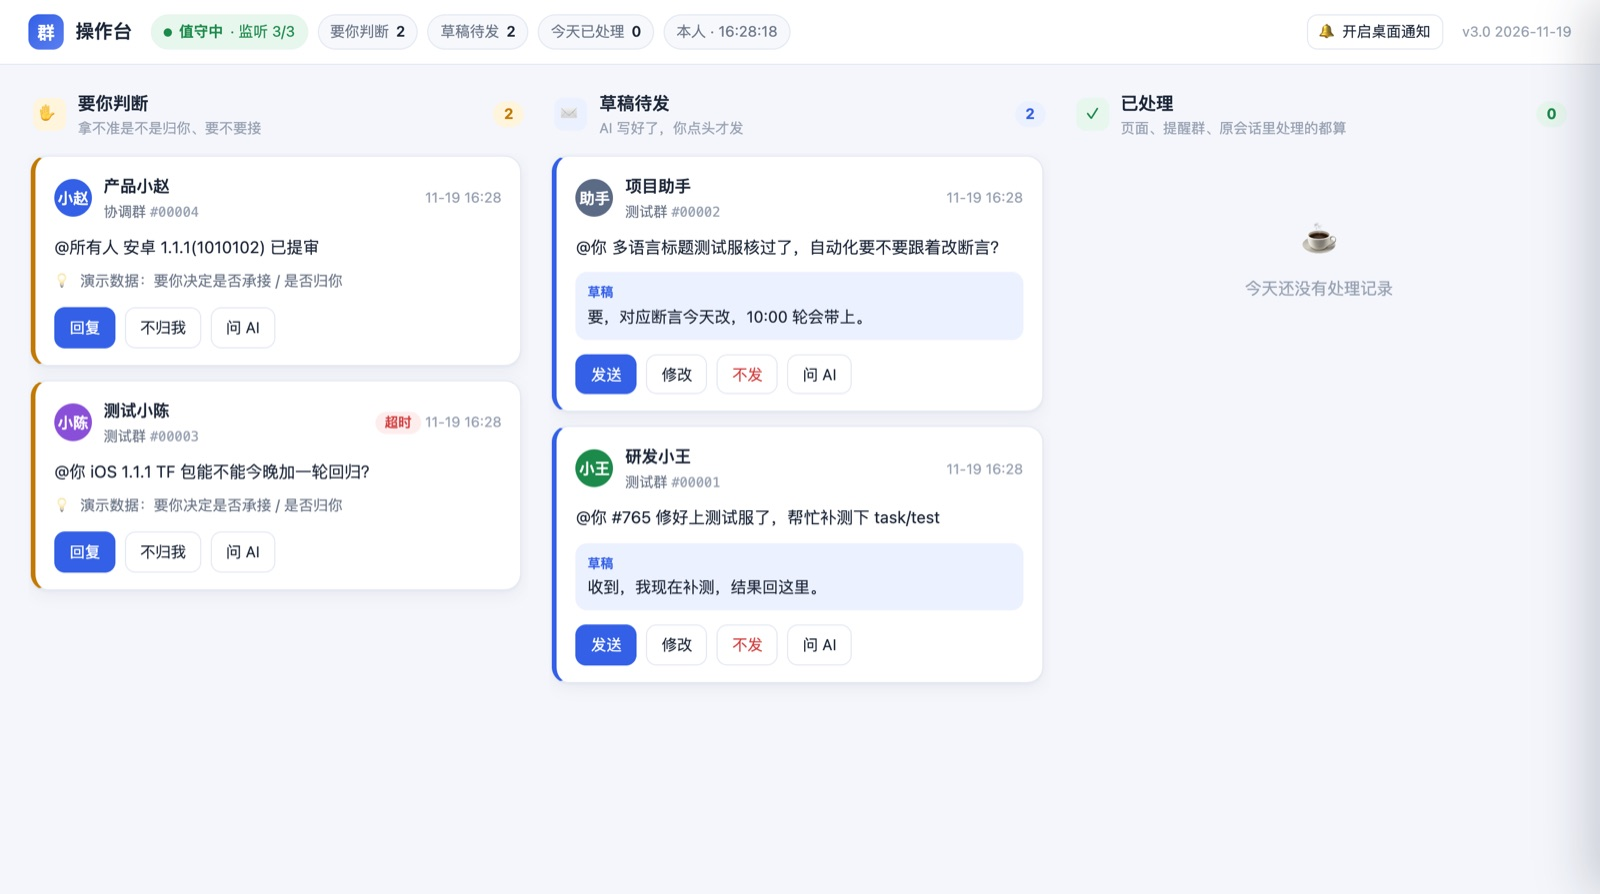
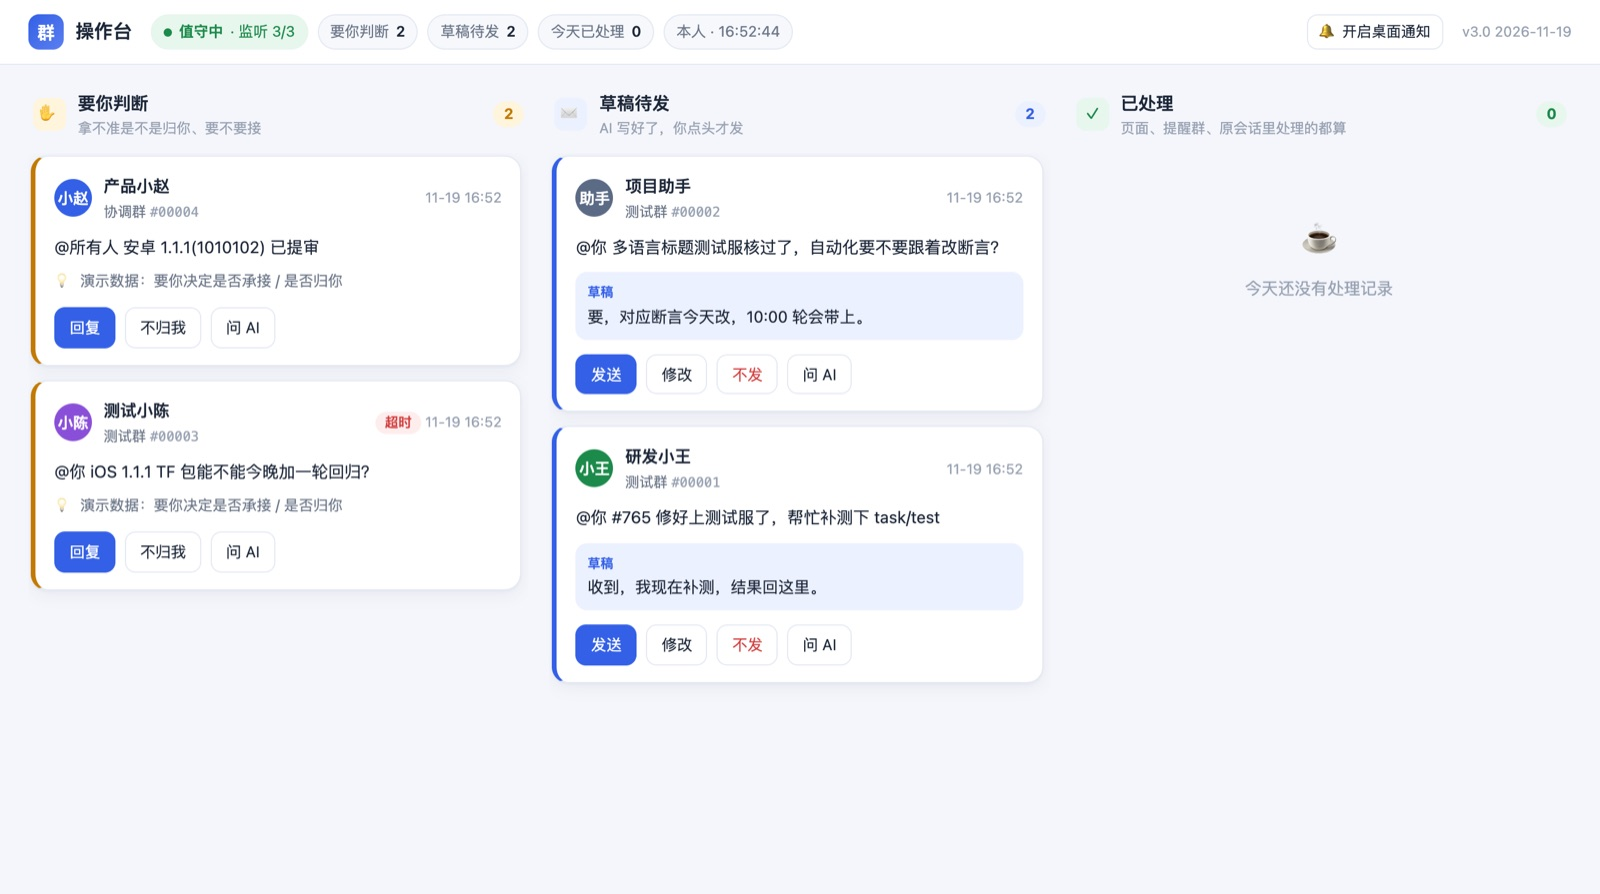
3.0 补充：绑定已有提醒群和机器人、内网其他电脑看操作台、并行时不重复提醒、已处理显示最近 20 条；指南快速上手改成分条重点，截图和缓存修正

Changed region(s): [[0.9688, 0.0302, 1.0, 0.9664], [0.4688, 0.0302, 0.5, 0.0604]]

diff --git a/site/template.html b/site/template.html
@@ -83,19 +83,26 @@
   <div class="guide-layout">
     <div>
       <div class="step-card" id="s1"><div class="step-heading"><span class="no">01</span><h3>下载部署文档</h3></div>
-        <p>一份 Markdown 文件，里面有给 AI 助手的完整指令、代码和工作手册，不用另外下载程序。</p>
+        <ul class="pts"><li>就是<b>一份 Markdown 文件</b>：给 AI 助手的完整指令、代码和工作手册都在里面</li><li><mark>不用另外下载程序</mark></li></ul>
         <div class="hero-actions" style="margin-top:14px"><a class="button primary" href="files/doc0.md" download="{{DOC0}}">下载部署文档</a><button class="button ghost" data-copy-doc>复制部署文档</button><a class="button ghost" href="view.html?f=doc0.md&n={{DOC0}}">在线看全文</a></div>
-        <p style="font-size:13px">不想下载文件？点「复制部署文档」，直接粘贴给你的 AI 助手也行；要看原文点 <a href="view.html?f=doc0.md&n={{DOC0}}&raw=1">以 Markdown 格式查看</a>。</p></div>
+        <ul class="pts sub"><li>不想下载文件：点「<b>复制部署文档</b>」，直接粘贴给你的 AI 助手</li><li>想看原文：<a href="view.html?f=doc0.md&n={{DOC0}}&raw=1">以 Markdown 格式查看</a></li></ul></div>
       <div class="step-card" id="s2"><div class="step-heading"><span class="no">02</span><h3>拖进你的 AI 助手，发「部署」</h3></div>
-        <p>AI 助手按文档从第 0 步开始：查环境 → 给你看风险 → 认出你是谁 → 一步一步问你选项（回数字就行）。</p>
+        <ul class="pts flow"><li>查环境</li><li>给你看风险</li><li>认出你是谁</li><li>一步步问你选项（<mark>回数字就行</mark>）</li></ul>
         <div class="cmd"><code>部署</code><button class="copy-button" data-copy="部署">复制</button></div></div>
       <div class="step-card" id="s3"><div class="step-heading"><span class="no">03</span><h3>确认角色、职责范围和回复规则</h3></div>
-        <p>有协作库就按协作库认出你的角色和职责；没有就从<b>角色职责库</b>选（产品、Android、iOS、H5、网页版、服务端、剧中台、推荐、测试、运营、后台 UI、项目负责人，可多选）。每个角色的职责会念给你，你修改、补充，最后二次确认才生效。</p>
-        <div class="callout">助手不会在群里自动回复任何消息：所有回复都由你确认后才发，超过 2 小时没处理会再提醒你。</div></div>
-      <div class="step-card" id="s4"><div class="step-heading"><span class="no">04</span><h3>提醒群自动建好，你只加一个机器人</h3></div>
-        <p>AI 助手运行 <code>setup-notify</code>，用钉钉 CLI 自动建好只有你自己的提醒群，并在群里发一条加机器人的步骤。钉钉不允许程序代建机器人，这一步要你点一下（约 1 分钟）：群设置 → 机器人 → 自定义 → 勾「加签」。把 Webhook 地址和 SEC 密钥直接发在群里，助手自动写进配置、发一条自检，不用改任何文件。</p></div>
+        <ul class="pts"><li><b>有协作库</b>：按协作库认出你的角色和职责</li>
+        <li><b>没有协作库</b>：从<span class="key">角色职责库</span>选，可多选——产品、Android、iOS、H5、网页版、服务端、剧中台、推荐、测试、运营、后台 UI、项目负责人</li>
+        <li>每个角色的职责会念给你，你可以改、可以补，<mark>二次确认后才生效</mark></li></ul>
+        <div class="callout">助手<b>不会在群里自动回复任何消息</b>：所有回复都由你确认后才发；超过 <b>2 小时</b>没处理会再提醒你。</div></div>
+      <div class="step-card" id="s4"><div class="step-heading"><span class="no">04</span><h3>提醒群：有就直接用，没有自动建</h3></div>
+        <ul class="pts"><li><span class="tag-ok">已经有</span>提醒群和机器人：把群名、Webhook 地址、SEC 密钥告诉 AI 助手，<mark>直接绑定，不新建</mark></li>
+        <li><span class="tag-new">还没有</span>AI 助手运行 <code>setup-notify</code>，用钉钉 CLI <b>自动建好</b>只有你自己的提醒群</li>
+        <li>机器人要<b>你点一下</b>（钉钉不允许程序代建，约 1 分钟）：<span class="key">群设置 → 机器人 → 自定义 → 勾「加签」</span></li>
+        <li>把 Webhook 地址和 SEC 密钥<b>直接发在群里</b>，助手自动写进配置、发一条自检，<mark>不用改任何文件</mark></li></ul></div>
       <div class="step-card" id="s5"><div class="step-heading"><span class="no">05</span><h3>自检，看到版本号就好了</h3></div>
-        <p>最后 AI 助手会跑一次自检，并下载内置表情包索引，再按你的系统设好每天 09:00 和登录时自动启动（Windows 计划任务 / macOS LaunchAgent / Linux systemd）。提醒群收到一条「助手自检」就说明机器人通了。</p>
+        <ul class="pts"><li>AI 助手跑一次自检，并下载内置表情包索引</li>
+        <li>设好<b>每天 09:00 和登录时自动启动</b>（Windows 计划任务 / macOS LaunchAgent / Linux systemd）</li>
+        <li>提醒群收到「<b>助手自检</b>」= 机器人通了；再收到「<b>打开操作台</b>」链接 = <mark>全部装好</mark></li></ul>
         <div class="cmd"><code data-win="python C:\qa-agent\agent.py check" data-unix="python3 ~/qa-agent/agent.py check">python C:\qa-agent\agent.py check</code><button class="copy-button" data-copy="python C:\qa-agent\agent.py check">复制</button></div></div>
     </div>
     <aside class="progress-card" aria-label="上手进度"><h3>上手进度 <span id="pc">0 / 5</span></h3><div class="bar"><i id="pb"></i></div>

diff --git a/site/guide.css b/site/guide.css
@@ -83,3 +83,10 @@ section.block{padding:56px 0;border-top:1px solid var(--border)}
 .feature-grid{display:grid;grid-template-columns:repeat(3,minmax(0,1fr));gap:14px;margin:8px 0}.feature{background:var(--surface);border:1px solid var(--border);border-radius:14px;padding:16px 18px}
 .feature h3{margin:0 0 6px;font-size:16px}.feature p{margin:0;color:var(--muted);font-size:14.5px;line-height:1.7}
 @media (max-width:900px){.feature-grid{grid-template-columns:1fr}}
+.pts{margin:10px 0 0;padding-left:0;list-style:none}.pts li{position:relative;padding:3px 0 3px 18px;line-height:1.75;color:var(--text)}
+.pts li::before{content:"";position:absolute;left:4px;top:.85em;width:6px;height:6px;border-radius:50%;background:var(--blue)}
+.pts.sub li{font-size:13.5px;color:var(--muted)}.pts.sub li::before{background:var(--border)}
+.pts.flow{display:flex;flex-wrap:wrap;gap:6px 0}.pts.flow li{padding:3px 22px 3px 0}.pts.flow li::before{display:none}.pts.flow li:not(:last-child)::after{content:"→";position:absolute;right:6px;color:var(--muted)}
+mark{background:var(--blue-soft);color:var(--blue);font-weight:600;padding:1px 6px;border-radius:5px}
+.key{color:var(--blue);font-weight:600}.tag-ok,.tag-new{display:inline-block;font-size:12px;font-weight:600;border-radius:99px;padding:0 8px;margin-right:6px}
+.tag-ok{background:#e6f6ec;color:#17803d}.tag-new{background:var(--blue-soft);color:var(--blue)}

diff --git a/agent.py b/agent.py
@@ -434,6 +434,8 @@ def minutes_left():
 def notify(title, text):
     """提醒本人：只走本人专属群的机器人（有推送、有历史）。机器人没配或发送失败时记进 待处理.md 和日志，第二天的汇报里会写出来。"""
     ok = False
+    if CFG.get("quiet_new_items") and title[:1] in ("🔔", "❓", "📝"):
+        log("新事项只进操作台，不发提醒群", title); return True          # 和别的值守并行时避免提醒群重复（11-19）
     if CFG.get("webhook") and CFG.get("secret"):
         ts = str(int(time.time() * 1000)); sec = CFG["secret"]
         sign = base64.b64encode(hmac.new(sec.encode(), f"{ts}\n{sec}".encode(), hashlib.sha256).digest()).decode()
@@ -455,10 +457,30 @@ def notify(title, text):
     return ok
 
 
-def setup_notify(wait_minutes=15):
+def _resolve_group(q):
+    """群名或 openConversationId → openConversationId（群名要唯一命中）。"""
+    if q.startswith("cid"):
+        return q
+    r = run([DWS, "chat", "+chat-search", "--query", q, "--format", "json"], timeout=60)
+    ids = list(dict.fromkeys(re.findall(r'"openConversationId"\s*:\s*"([^"]+)"', r.stdout or "")))
+    return ids[0] if len(ids) == 1 else None
+
+
+def setup_notify(wait_minutes=15, group="", webhook="", secret=""):
     """v3.0：提醒群自动建好（dws 建群，只有本人），再引导本人在群里加自定义机器人。
     钉钉开放接口不支持创建自定义机器人、也拿不到它的地址和密钥，这一步只能本人在群设置里点（约 1 分钟）；
     本人把地址和加签密钥直接发在这个群里，助手读到后自己写进配置、发一条自检，不用手改任何文件。"""
+    # 已有提醒群 / 机器人的直接绑定，不强制新建（11-19 梦无矶）：--group 群名或 cid；--webhook 地址 --secret SEC 密钥
+    if group:
+        cid = _resolve_group(group)
+        if not cid:
+            print(f"没找到唯一的群「{group}」，换个更完整的群名，或直接给 openConversationId"); return False
+        save_cfg("notify_group", cid); print("已绑定提醒群", group)
+    if webhook and secret:
+        save_cfg("webhook", webhook); save_cfg("secret", secret)
+    if CFG.get("notify_group") and CFG.get("webhook") and CFG.get("secret"):
+        ok = notify("🧪 助手自检", "已绑定你现有的提醒群和机器人：以后草稿、提醒、日报都从这里发。")
+        print("已用现有的群和机器人，自检", "成功" if ok else "失败（核对地址、密钥是否对应这个群的机器人）"); return ok
     cid = CFG.get("notify_group")
     if not cid:
         name = f"群消息助手·{CFG.get('my_name') or '提醒'}"
@@ -527,7 +549,10 @@ def open_close(no, why):
 def close_by_conversation(cid):
     """本人在这个会话里亲自回复了 → 这个会话里交给本人的事都算处理了。"""
     for no, x in list(_open_load().items()):
-        if x.get("cid") == cid and x.get("kind") == "escalate":
+        if x.get("cid") == cid:                                           # 本人（或代本人值守的程序）已在原会话回复：草稿也作废
+            f, _ = draft_by_no(no)
+            if f:
+                os.remove(f)
             open_close(no, "你已在该会话回复")
 
 
@@ -1358,7 +1383,8 @@ def main():
             raise SystemExit("用法：python agent.py watch [--once]")
         return watch(once="--once" in sys.argv[2:], auto="--auto" in sys.argv[2:])
     if len(sys.argv) >= 2 and sys.argv[1] == "setup-notify":
-        setup_notify(); return
+        opt = dict(zip(sys.argv[2::2], sys.argv[3::2]))                   # --group 群名/cid  --webhook 地址  --secret SEC…
+        setup_notify(group=opt.get("--group", ""), webhook=opt.get("--webhook", ""), secret=opt.get("--secret", "")); return
     if len(sys.argv) >= 2 and sys.argv[1] == "clear":
         n, k = clear_all(); print(f"已清空：{n} 件没处理完的事、{k} 份草稿，都没有发出"); return
     if len(sys.argv) >= 2 and sys.argv[1] == "audit":
@@ -1394,7 +1420,7 @@ def main():
     try:                                                                   # v3.0 本机操作台：页面上直接处理，和提醒群指令同步
         import console
         if console.start(globals()):
-            notify("🖥 打开操作台", f"[点这里打开操作台]({console.url()})\n只能在本机打开；有新的要处理会弹桌面通知，处理后提醒群和页面同步。")
+            notify("🖥 打开操作台", f"[点这里打开操作台]({console.url()})\n" + ("内网其他电脑也能打开（链接带密钥，别外传）" if console.lan() else "只能在本机打开；有新的要处理会弹桌面通知") + "，处理后提醒群和页面同步。")
     except Exception as ex:
         log("操作台没开起来", repr(ex)[:200])
     threading.Thread(target=morning_report, daemon=True).start()

diff --git a/console.py b/console.py
@@ -16,7 +16,7 @@ from http.server import BaseHTTPRequestHandler, ThreadingHTTPServer
 
 A = {}                     # agent.py 的全局变量（start 时传进来）
 TOKEN = ""
-CLOSED_N = 200             # 「已处理」列保留最近多少条
+CLOSED_N = 20              # 「已处理」列只显示最近 20 条（11-19 梦无矶：3 天内为主，但始终保证 20 条）
 POP = {"t": 0}             # 上次把操作台弹到前面的时间
 
 
@@ -245,8 +245,22 @@ class H(BaseHTTPRequestHandler):
         self._send(200, json.dumps({"msg": "已处理" if msg == "ok" else msg}, ensure_ascii=False))
 
 
+def _lan_ip():
+    import socket
+    try:
+        x = socket.socket(socket.AF_INET, socket.SOCK_DGRAM); x.connect(("223.5.5.5", 80)); ip = x.getsockname()[0]; x.close(); return ip
+    except OSError:
+        return "127.0.0.1"
+
+
+def lan():
+    """console_host 设成 0.0.0.0（或本机内网 IP）= 允许内网其他电脑打开（比如助手装在 Mac、人在 Windows 上看）。"""
+    return (A["CFG"].get("console_host") or "127.0.0.1") not in ("127.0.0.1", "localhost")
+
+
 def url():
-    return f"http://127.0.0.1:{int(A['CFG'].get('console_port') or 8765)}/?k={TOKEN}"
+    host = A["CFG"].get("console_url_host") or (_lan_ip() if lan() else "127.0.0.1")
+    return f"http://{host}:{int(A['CFG'].get('console_port') or 8765)}/?k={TOKEN}"
 
 
 def start(ns):
@@ -312,8 +326,8 @@ main{flex:1;min-height:0;display:grid;grid-template-columns:repeat(3,minmax(0,1f
 .btns{display:flex;gap:8px;flex-wrap:wrap;margin-top:12px}
 .empty{color:var(--faint);text-align:center;padding:48px 10px}.empty .big{font-size:30px;display:block;margin-bottom:6px}
 .mask{position:fixed;inset:0;background:rgba(10,18,35,.25);opacity:0;pointer-events:none;transition:.2s;z-index:9}.mask.on{opacity:1;pointer-events:auto}
-aside{position:fixed;top:0;right:0;height:100%;width:min(560px,100%);background:var(--surface);box-shadow:-12px 0 40px rgba(10,20,45,.18);transform:translateX(100%);transition:transform .22s ease;display:flex;flex-direction:column;z-index:10}
-aside.on{transform:none}.ph{padding:16px 20px;border-bottom:1px solid var(--border);display:flex;align-items:center;gap:12px}.ph .t{font-weight:700}.ph .s{color:var(--muted);font-size:12.5px}
+aside{position:fixed;top:0;right:0;height:100%;width:min(560px,100%);background:var(--surface);box-shadow:none;transform:translateX(100%);transition:transform .22s ease;display:flex;flex-direction:column;z-index:10}
+aside.on{transform:none;box-shadow:-12px 0 40px rgba(10,20,45,.18)}.ph{padding:16px 20px;border-bottom:1px solid var(--border);display:flex;align-items:center;gap:12px}.ph .t{font-weight:700}.ph .s{color:var(--muted);font-size:12.5px}
 .pb{flex:1;overflow:auto;padding:16px 20px;background:var(--soft)}.pf{border-top:1px solid var(--border);padding:14px 20px;background:var(--surface)}
 .bub{display:flex;gap:10px;margin-bottom:14px}.bub .av{width:28px;height:28px;font-size:12px}.bub .b{background:var(--surface);border:1px solid var(--border);border-radius:4px 12px 12px 12px;padding:8px 12px;max-width:100%}
 .bub .w{font-size:12px;color:var(--muted);margin-bottom:2px}.bub .w span{color:var(--faint);margin-left:6px}.bub .tx{white-space:pre-wrap;word-break:break-word}

diff --git a/site/build_site.py b/site/build_site.py
@@ -36,10 +36,15 @@ page = open(os.path.join(HERE, "template.html"), encoding="utf-8").read()
 for k, v in {"{{VER}}": html.escape(ver), "{{VER_SHORT}}": html.escape(ver.split()[0]), "{{DOC0}}": html.escape(DOCS[0][0]),
              "{{CHANGELOG}}": cl, "{{DOWNLOADS}}": "".join(cards)}.items():
     page = page.replace(k, v)
+import hashlib   # 静态文件按内容取短哈希当 ?v=，内容一变浏览器就重新取（11-19：版本号不变时用户看到的是旧缓存）
+def _h(name):
+    return hashlib.md5(open(os.path.join(OUT, "assets", name), "rb").read()).hexdigest()[:8]
+for _n in ("guide.css", "console.jpg", "console-panel.jpg"):
+    page = re.sub(r"assets/" + re.escape(_n) + r"\?v=[^\"']*", f"assets/{_n}?v={_h(_n)}", page)
 open(os.path.join(OUT, "index.html"), "w", encoding="utf-8").write(page)
 open(os.path.join(OUT, "view.html"), "w", encoding="utf-8").write(f"""<!doctype html><html lang="zh"><head><meta charset="utf-8"><meta name="viewport" content="width=device-width,initial-scale=1">
 <title>群消息助手 · 文档</title><script>try{{var t=localStorage.getItem('qa-theme');if(t&&t!=='auto')document.documentElement.dataset.theme=t}}catch(e){{}}</script>
-<link rel="stylesheet" href="assets/guide.css?v={html.escape(ver.split()[0])}"><style>#c{{background:var(--surface);border:1px solid var(--border);border-radius:14px;padding:28px 32px;margin-top:20px;overflow-x:auto}}#c pre{{background:var(--surface-soft);padding:14px;border-radius:8px;overflow-x:auto;font-size:13px}}#c table{{border-collapse:collapse;display:block;overflow-x:auto}}#c td,#c th{{border:1px solid var(--border);padding:6px 10px}}#c h1,#c h2,#c h3{{margin:1.2em 0 .5em}}#c p{{margin:.6em 0}}</style>
+<link rel="stylesheet" href="assets/guide.css?v={_h('guide.css')}"><style>#c{{background:var(--surface);border:1px solid var(--border);border-radius:14px;padding:28px 32px;margin-top:20px;overflow-x:auto}}#c pre{{background:var(--surface-soft);padding:14px;border-radius:8px;overflow-x:auto;font-size:13px}}#c table{{border-collapse:collapse;display:block;overflow-x:auto}}#c td,#c th{{border:1px solid var(--border);padding:6px 10px}}#c h1,#c h2,#c h3{{margin:1.2em 0 .5em}}#c p{{margin:.6em 0}}</style>
 <script src="assets/marked.min.js"></script></head><body>
 <header class="site-header"><div class="header-inner"><a class="brand" href="./"><span class="logo">群</span>群消息助手</a><nav class="header-nav"><a href="./">← 返回指南</a></nav><span id="mdtools" style="display:none;gap:10px;align-items:center;font-size:13.5px"><button class="link-button" id="cp">⧉ 复制页面</button><a id="raw"></a></span><a class="button ghost" id="dl" download>下载原文件</a></div></header>
 <div class="toast" id="toast">已复制</div>

diff --git a/tests/test_console.py b/tests/test_console.py
@@ -118,3 +118,21 @@ def test_status_not_spammed_to_notify_group_but_problems_are(make_agent):
     assert not notes                                                          # v3.0：例行状态不发提醒群
     a.status_event("监听异常", "测试群 断开", announce=True)
     assert notes and "监听异常" in notes[-1][0]
+
+
+def test_setup_notify_binds_existing_group_and_robot_without_creating(make_agent):
+    a, notes, calls = make_agent({"notify_group": ""})
+    a.CFG["notify_group"] = ""
+    a.run = lambda args, **k: calls.append(args) or R(0, '{"items": [{"openConversationId": "cidOLD"}]}')
+    hook = "https://oapi.dingtalk.com/robot/send?access_token=" + "c3" * 32
+    assert a.setup_notify(group="我的提醒群", webhook=hook, secret="SEC" + "d4" * 32)
+    assert a.CFG["notify_group"] == "cidOLD" and a.CFG["webhook"] == hook
+    assert not any("+chat-create" in c for c in calls)                       # 没建新群
+    assert notes and "自检" in notes[-1][0]
+
+
+def test_console_lan_mode_link_uses_lan_address(make_agent):
+    a, console, *_ = _boot(make_agent)
+    assert console.url().startswith("http://127.0.0.1:")
+    a.CFG["console_host"] = "0.0.0.0"; a.CFG["console_url_host"] = "192.168.9.9"
+    assert console.lan() and console.url().startswith("http://192.168.9.9:")

diff --git a/CHANGELOG.md b/CHANGELOG.md
@@ -8,6 +8,9 @@
 - **三处同步**：页面按钮转成和提醒群一模一样的指令执行；在提醒群、页面、原会话任一处处理，另外两处自动同步（页面 3 秒内更新、桌面通知自动关掉、提醒群收到「已处理」）。
 - **有新的要处理才弹**：自动用浏览器把操作台弹到最前面并定位到那件事（60 秒内最多一次，提醒群「弹出 关 / 开」切换），同时弹桌面通知、标签页显示件数；没有新事件什么都不弹，页面不整页刷新。同时只留一个操作台标签页。
 - **问待办给链接**：提醒群问「有什么待办」「还有什么没处理的」，回复末尾附「打开操作台」链接。
+- **和别的值守并行**：`quiet_new_items: true` 时新事项只进操作台、不发提醒群，避免和其他值守程序重复提醒；本人（或代本人值守的程序）在原会话回复后，这件事连同草稿自动移到「已处理」。「已处理」列只显示最近 20 条。
+- **在别的电脑上看操作台**：`console_host: "0.0.0.0"` 后，「打开操作台」链接自动换成本机内网地址，同一内网的电脑带密钥就能打开（助手在 Mac、人在 Windows 也行）。
+- **已有的提醒群 / 机器人直接绑定**：`setup-notify --group 群名 --webhook 地址 --secret SEC…`，不强制新建；没有才自动建。
 - **提醒群自动建**：`agent.py setup-notify` 用钉钉 CLI 建好只有本人的提醒群；自定义机器人钉钉不允许程序代建，本人点一下后把地址和密钥发进群里，助手自动写进配置并自检，不用手改文件。
 - **值守状态进操作台**：顶栏绿点（值守中 / 部分监听断开 / 没在监听 / 值守时间外）。提醒群默认不再发「收到消息 / 开始处理 / 心跳」，出问题（监听断开、发送失败、处理失败）照发；2.10 的汇报窗口默认关闭（`report_window: true` 可打开）。
 - **测试**：新增操作台密钥校验、三列不重复、页面发送与提醒群同步、待办链接、弹出与开关、自动建群 8 项；macOS、Linux 实测通过，Windows 由梦无矶实测。
